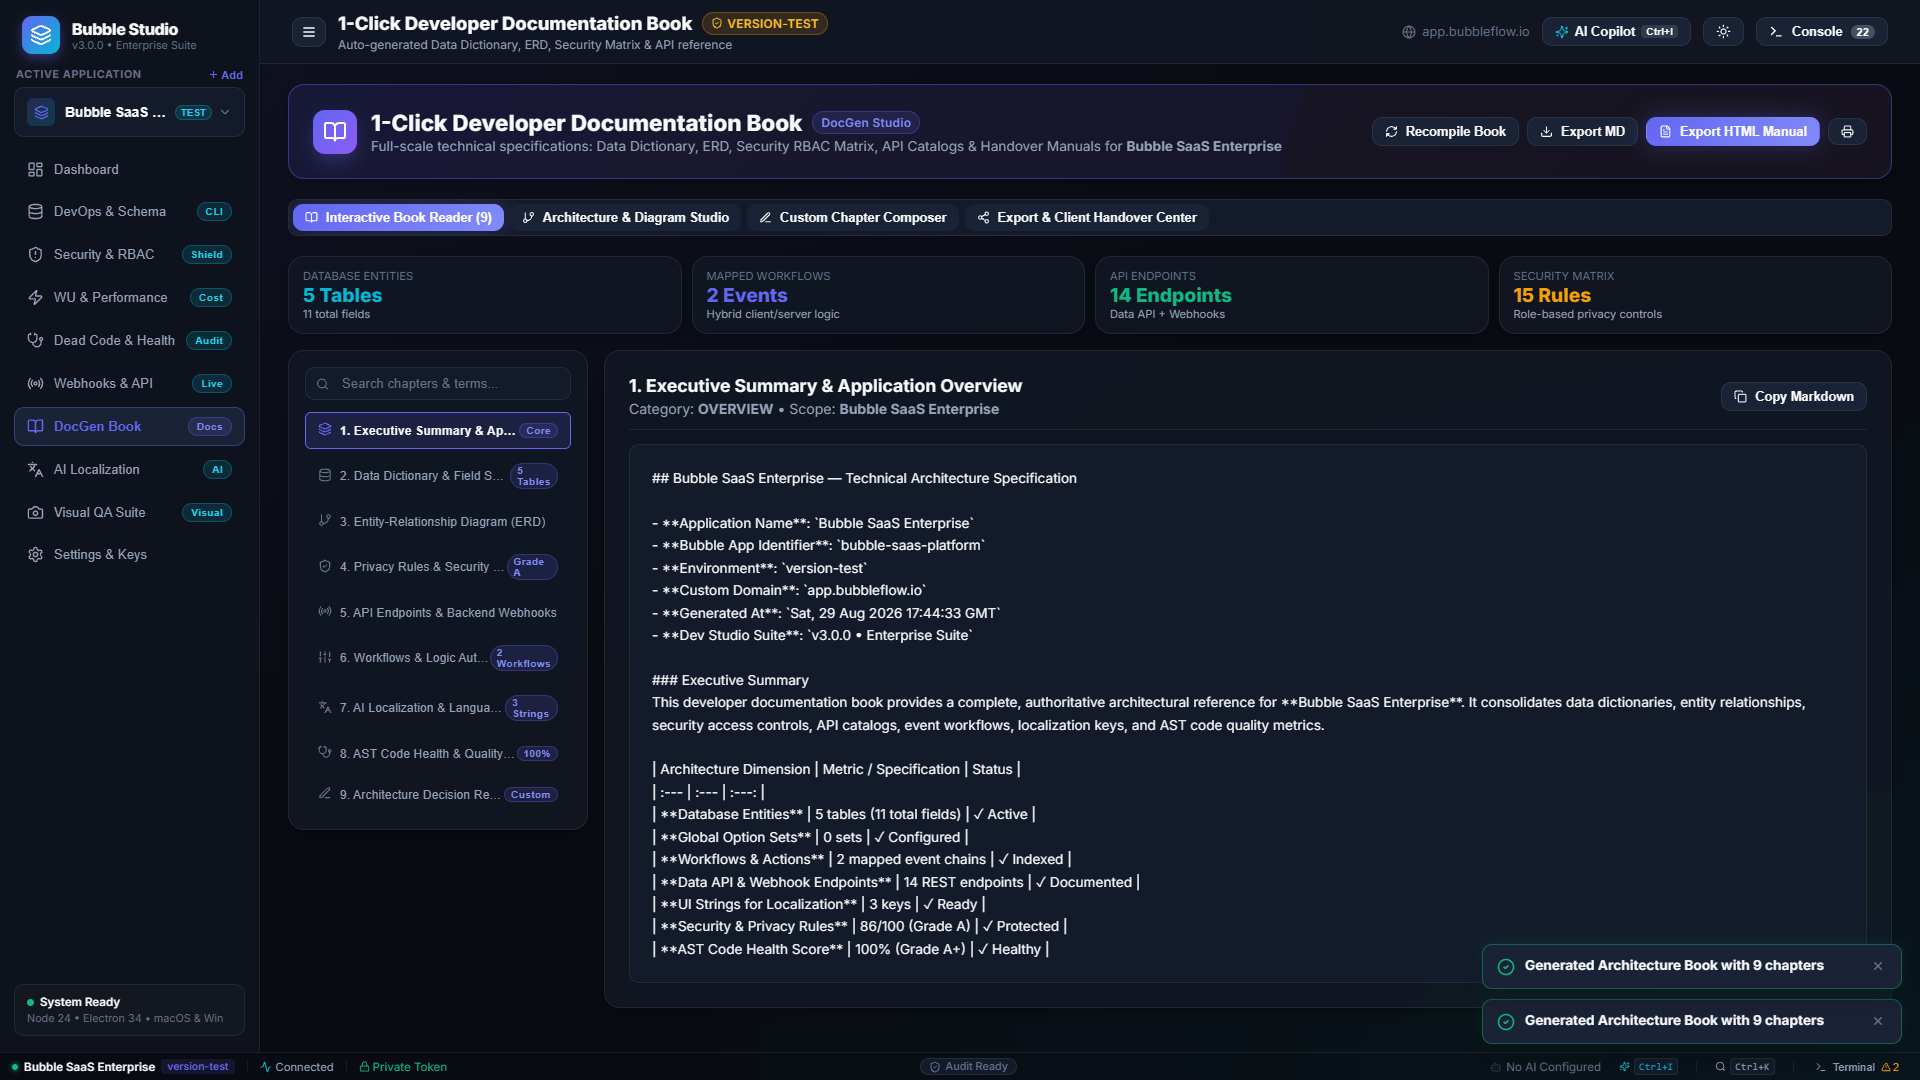
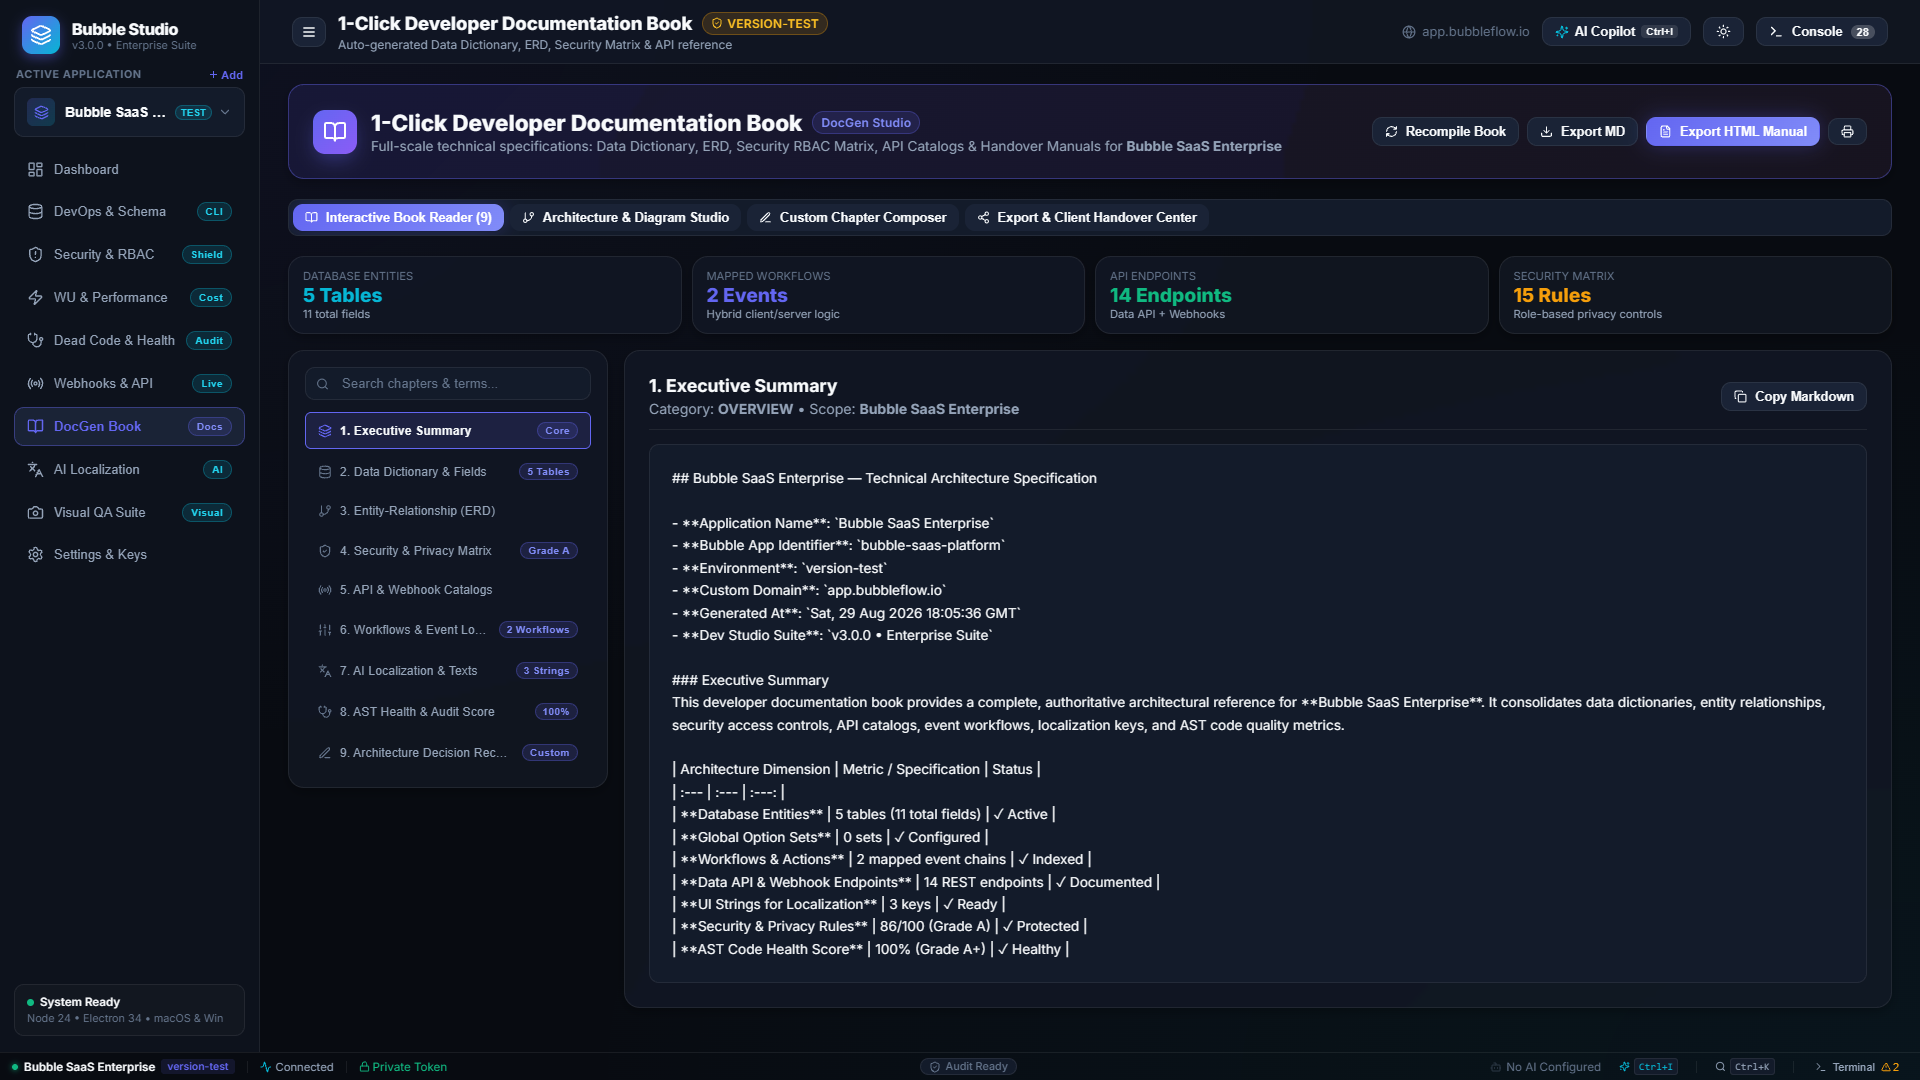
fix(docgen): widen TOC chapter list to 320px, refine chapter titles, and enable crisp single-line truncation

diff --git a/src/views/DocGenView.tsx b/src/views/DocGenView.tsx
@@ -360,7 +360,7 @@ export const DocGenView: React.FC<DocGenViewProps> = ({ activeProject, onLog }) 
           )}
 
           {/* Main Two-Column Layout */}
-          <div className="responsive-split" style={{ gridTemplateColumns: '300px 1fr', alignItems: 'start' }}>
+          <div className="responsive-split" style={{ gridTemplateColumns: '320px 1fr', alignItems: 'start' }}>
             {/* Left Column: Table of Contents */}
             <div className="card" style={{ padding: '16px' }}>
               <div style={{ marginBottom: '12px' }}>
@@ -376,7 +376,7 @@ export const DocGenView: React.FC<DocGenViewProps> = ({ activeProject, onLog }) 
                 </div>
               </div>
 
-              <div style={{ display: 'flex', flexDirection: 'column', gap: '4px', maxHeight: '500px', overflowY: 'auto' }}>
+              <div style={{ display: 'flex', flexDirection: 'column', gap: '4px', maxHeight: '520px', overflowY: 'auto' }}>
                 {filteredSections.map(sec => {
                   const isSelected = sec.id === selectedSectionId;
 
@@ -384,6 +384,7 @@ export const DocGenView: React.FC<DocGenViewProps> = ({ activeProject, onLog }) 
                     <button
                       key={sec.id}
                       onClick={() => setSelectedSectionId(sec.id)}
+                      title={sec.title}
                       style={{
                         display: 'flex',
                         alignItems: 'center',
@@ -397,11 +398,13 @@ export const DocGenView: React.FC<DocGenViewProps> = ({ activeProject, onLog }) 
                         fontSize: '0.775rem',
                         textAlign: 'left',
                         cursor: 'pointer',
-                        transition: 'all 0.15s ease'
+                        transition: 'all 0.15s ease',
+                        width: '100%',
+                        boxSizing: 'border-box'
                       }}
                     >
-                      <div style={{ display: 'flex', alignItems: 'center', gap: '8px', overflow: 'hidden', textOverflow: 'ellipsis', whiteSpace: 'nowrap' }}>
-                        <span style={{ color: isSelected ? 'var(--primary)' : 'var(--text-muted)' }}>
+                      <div style={{ display: 'flex', alignItems: 'center', gap: '8px', overflow: 'hidden', minWidth: 0, flex: 1 }}>
+                        <span style={{ color: isSelected ? 'var(--primary)' : 'var(--text-muted)', flexShrink: 0, display: 'flex', alignItems: 'center' }}>
                           {sec.id === 'sec_overview' && <Layers size={14} />}
                           {sec.id === 'sec_database' && <Database size={14} />}
                           {sec.id === 'sec_erd' && <GitBranch size={14} />}
@@ -412,13 +415,13 @@ export const DocGenView: React.FC<DocGenViewProps> = ({ activeProject, onLog }) 
                           {sec.id === 'sec_audit' && <Stethoscope size={14} />}
                           {sec.category === 'custom' && <Edit3 size={14} />}
                         </span>
-                        <span style={{ overflow: 'hidden', textOverflow: 'ellipsis', whiteSpace: 'nowrap' }}>
+                        <span style={{ overflow: 'hidden', textOverflow: 'ellipsis', whiteSpace: 'nowrap', minWidth: 0, flex: 1 }}>
                           {sec.title}
                         </span>
                       </div>
 
                       {sec.badge && (
-                        <span className="badge badge-indigo" style={{ fontSize: '0.65rem', padding: '1px 6px' }}>
+                        <span className="badge badge-indigo" style={{ fontSize: '0.65rem', padding: '2px 7px', flexShrink: 0, marginLeft: '8px' }}>
                           {sec.badge}
                         </span>
                       )}

diff --git a/src/core/doc-gen/docGenEngine.ts b/src/core/doc-gen/docGenEngine.ts
@@ -27,7 +27,7 @@ export class DocGenEngine {
     // 1. Overview Section
     sections.push({
       id: 'sec_overview',
-      title: '1. Executive Summary & Application Overview',
+      title: '1. Executive Summary',
       icon: 'Layers',
       category: 'overview',
       badge: 'Core',
@@ -87,7 +87,7 @@ This developer documentation book provides a complete, authoritative architectur
 
     sections.push({
       id: 'sec_database',
-      title: '2. Data Dictionary & Field Specifications',
+      title: '2. Data Dictionary & Fields',
       icon: 'Database',
       category: 'database',
       badge: `${dataTypes.length} Tables`,
@@ -109,7 +109,7 @@ This developer documentation book provides a complete, authoritative architectur
 
     sections.push({
       id: 'sec_erd',
-      title: '3. Entity-Relationship Diagram (ERD)',
+      title: '3. Entity-Relationship (ERD)',
       icon: 'GitBranch',
       category: 'database',
       enabled: true,
@@ -138,7 +138,7 @@ This developer documentation book provides a complete, authoritative architectur
 
     sections.push({
       id: 'sec_security',
-      title: '4. Privacy Rules & Security Matrix',
+      title: '4. Security & Privacy Matrix',
       icon: 'ShieldCheck',
       category: 'security',
       badge: securityReport ? `Grade ${securityReport.securityGrade}` : undefined,
@@ -173,7 +173,7 @@ This developer documentation book provides a complete, authoritative architectur
 
     sections.push({
       id: 'sec_api',
-      title: '5. API Endpoints & Backend Webhooks',
+      title: '5. API & Webhook Catalogs',
       icon: 'Radio',
       category: 'api',
       enabled: true,
@@ -199,7 +199,7 @@ This developer documentation book provides a complete, authoritative architectur
 
     sections.push({
       id: 'sec_workflows',
-      title: '6. Workflows & Logic Automation',
+      title: '6. Workflows & Event Logic',
       icon: 'Sliders',
       category: 'workflows',
       badge: `${extractedWorkflows.length > 0 ? extractedWorkflows.length : (project.stats?.workflowsCount || 0)} Workflows`,
@@ -224,7 +224,7 @@ This developer documentation book provides a complete, authoritative architectur
 
     sections.push({
       id: 'sec_localization',
-      title: '7. AI Localization & Language Matrix',
+      title: '7. AI Localization & Texts',
       icon: 'Languages',
       category: 'localization',
       badge: `${strings.length} Strings`,
@@ -256,7 +256,7 @@ This developer documentation book provides a complete, authoritative architectur
 
     sections.push({
       id: 'sec_audit',
-      title: '8. AST Code Health & Quality Scorecard',
+      title: '8. AST Health & Audit Score',
       icon: 'Stethoscope',
       category: 'quality',
       badge: auditReport ? `${auditReport.score}%` : undefined,
